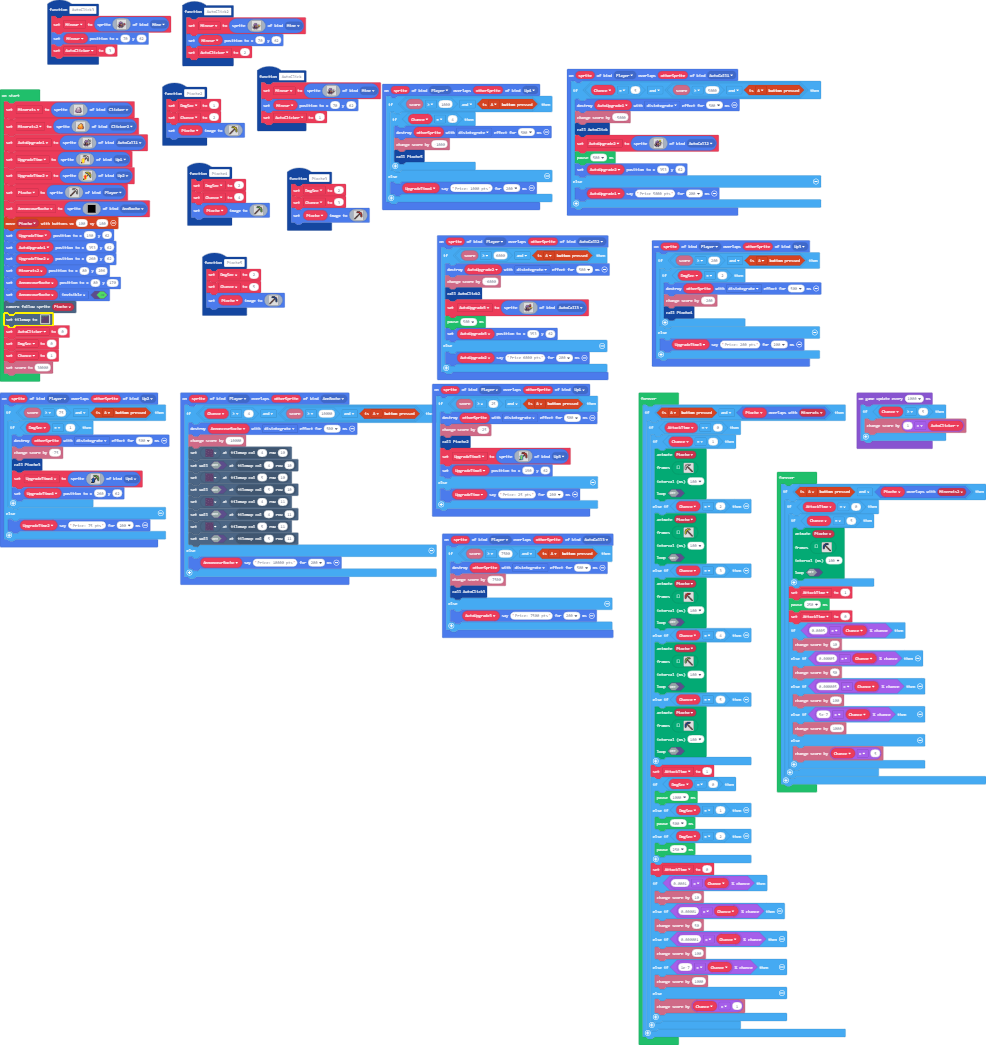
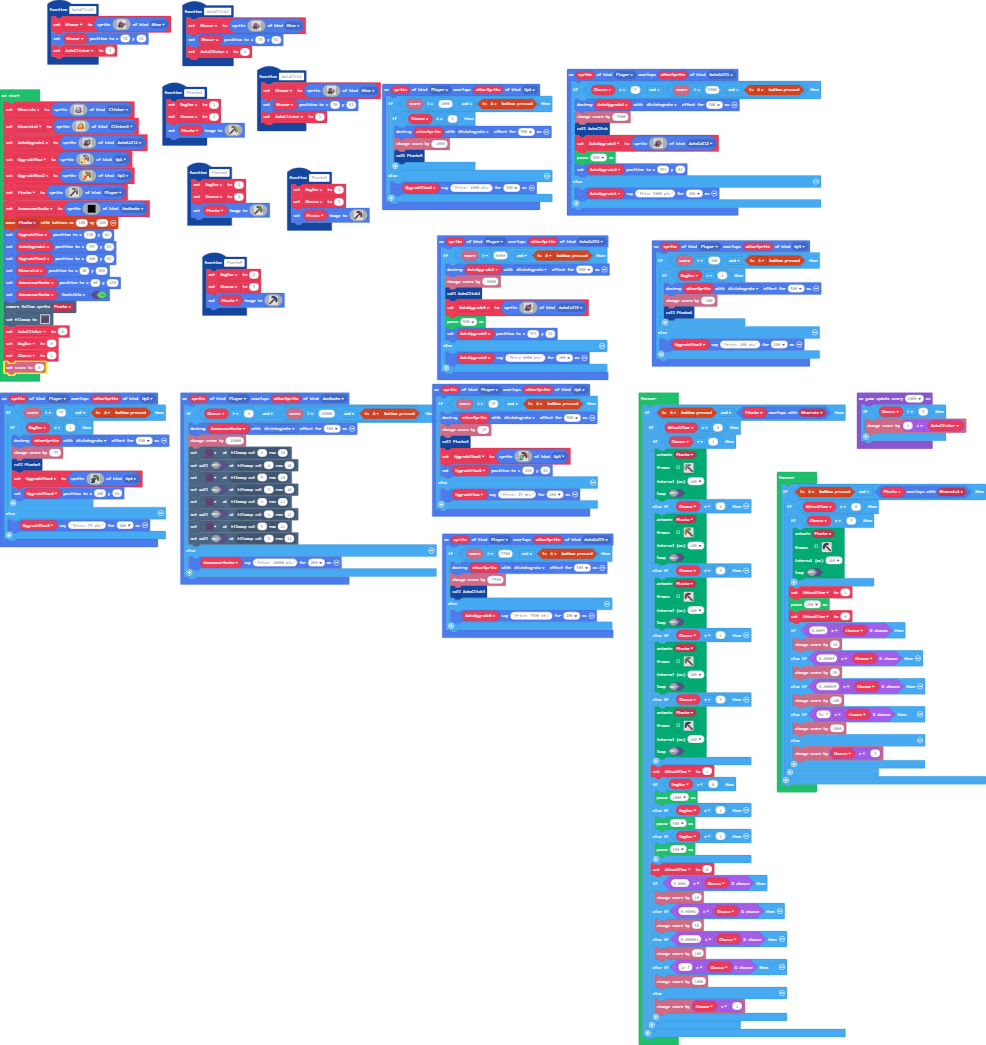
Update main.blocks, main.ts

diff --git a/main.ts b/main.ts
@@ -79,6 +79,17 @@ f d d f f a a a a c e e c a f f e f f . . . . .
     Mineur.setPosition(70, 62)
     AutoClicker = 1
 }
+sprites.onOverlap(SpriteKind.Player, SpriteKind.Up4, function (sprite, otherSprite) {
+    if (info.score() >= 1000 && controller.A.isPressed()) {
+        if (Chance == 4) {
+            otherSprite.destroy(effects.disintegrate, 500)
+            info.changeScoreBy(-1000)
+            Pioche5()
+        }
+    } else {
+        UpgradeTime4.say("Price: 1000 pts", 200)
+    }
+})
 function AutoClick3 () {
     Mineur = sprites.create(img`
 . . . . . . . . . . . . . . . . . . . . . . . . 
@@ -107,17 +118,6 @@ f d d f f a a a a c e e c a f f e f f . . . . .
     Mineur.setPosition(70, 62)
     AutoClicker = 3
 }
-sprites.onOverlap(SpriteKind.Player, SpriteKind.Up4, function (sprite, otherSprite) {
-    if (info.score() >= 1000 && controller.A.isPressed()) {
-        if (Chance == 4) {
-            otherSprite.destroy(effects.disintegrate, 500)
-            info.changeScoreBy(-1000)
-            Pioche5()
-        }
-    } else {
-        UpgradeTime4.say("Price: 1000 pts", 200)
-    }
-})
 sprites.onOverlap(SpriteKind.Player, SpriteKind.AutoCall1, function (sprite, otherSprite) {
     if (Chance == 5 && (info.score() >= 5000 && controller.A.isPressed())) {
         AutoUpgrade1.destroy(effects.disintegrate, 500)
@@ -596,7 +596,7 @@ tiles.setTilemap(tiles.createTilemap(
 AutoClicker = 0
 DmgSec = 0
 Chance = 1
-info.setScore(30000)
+info.setScore(0)
 forever(function () {
     if (controller.A.isPressed() && Pioche.overlapsWith(Minerais)) {
         if (AttackTime == 0) {
